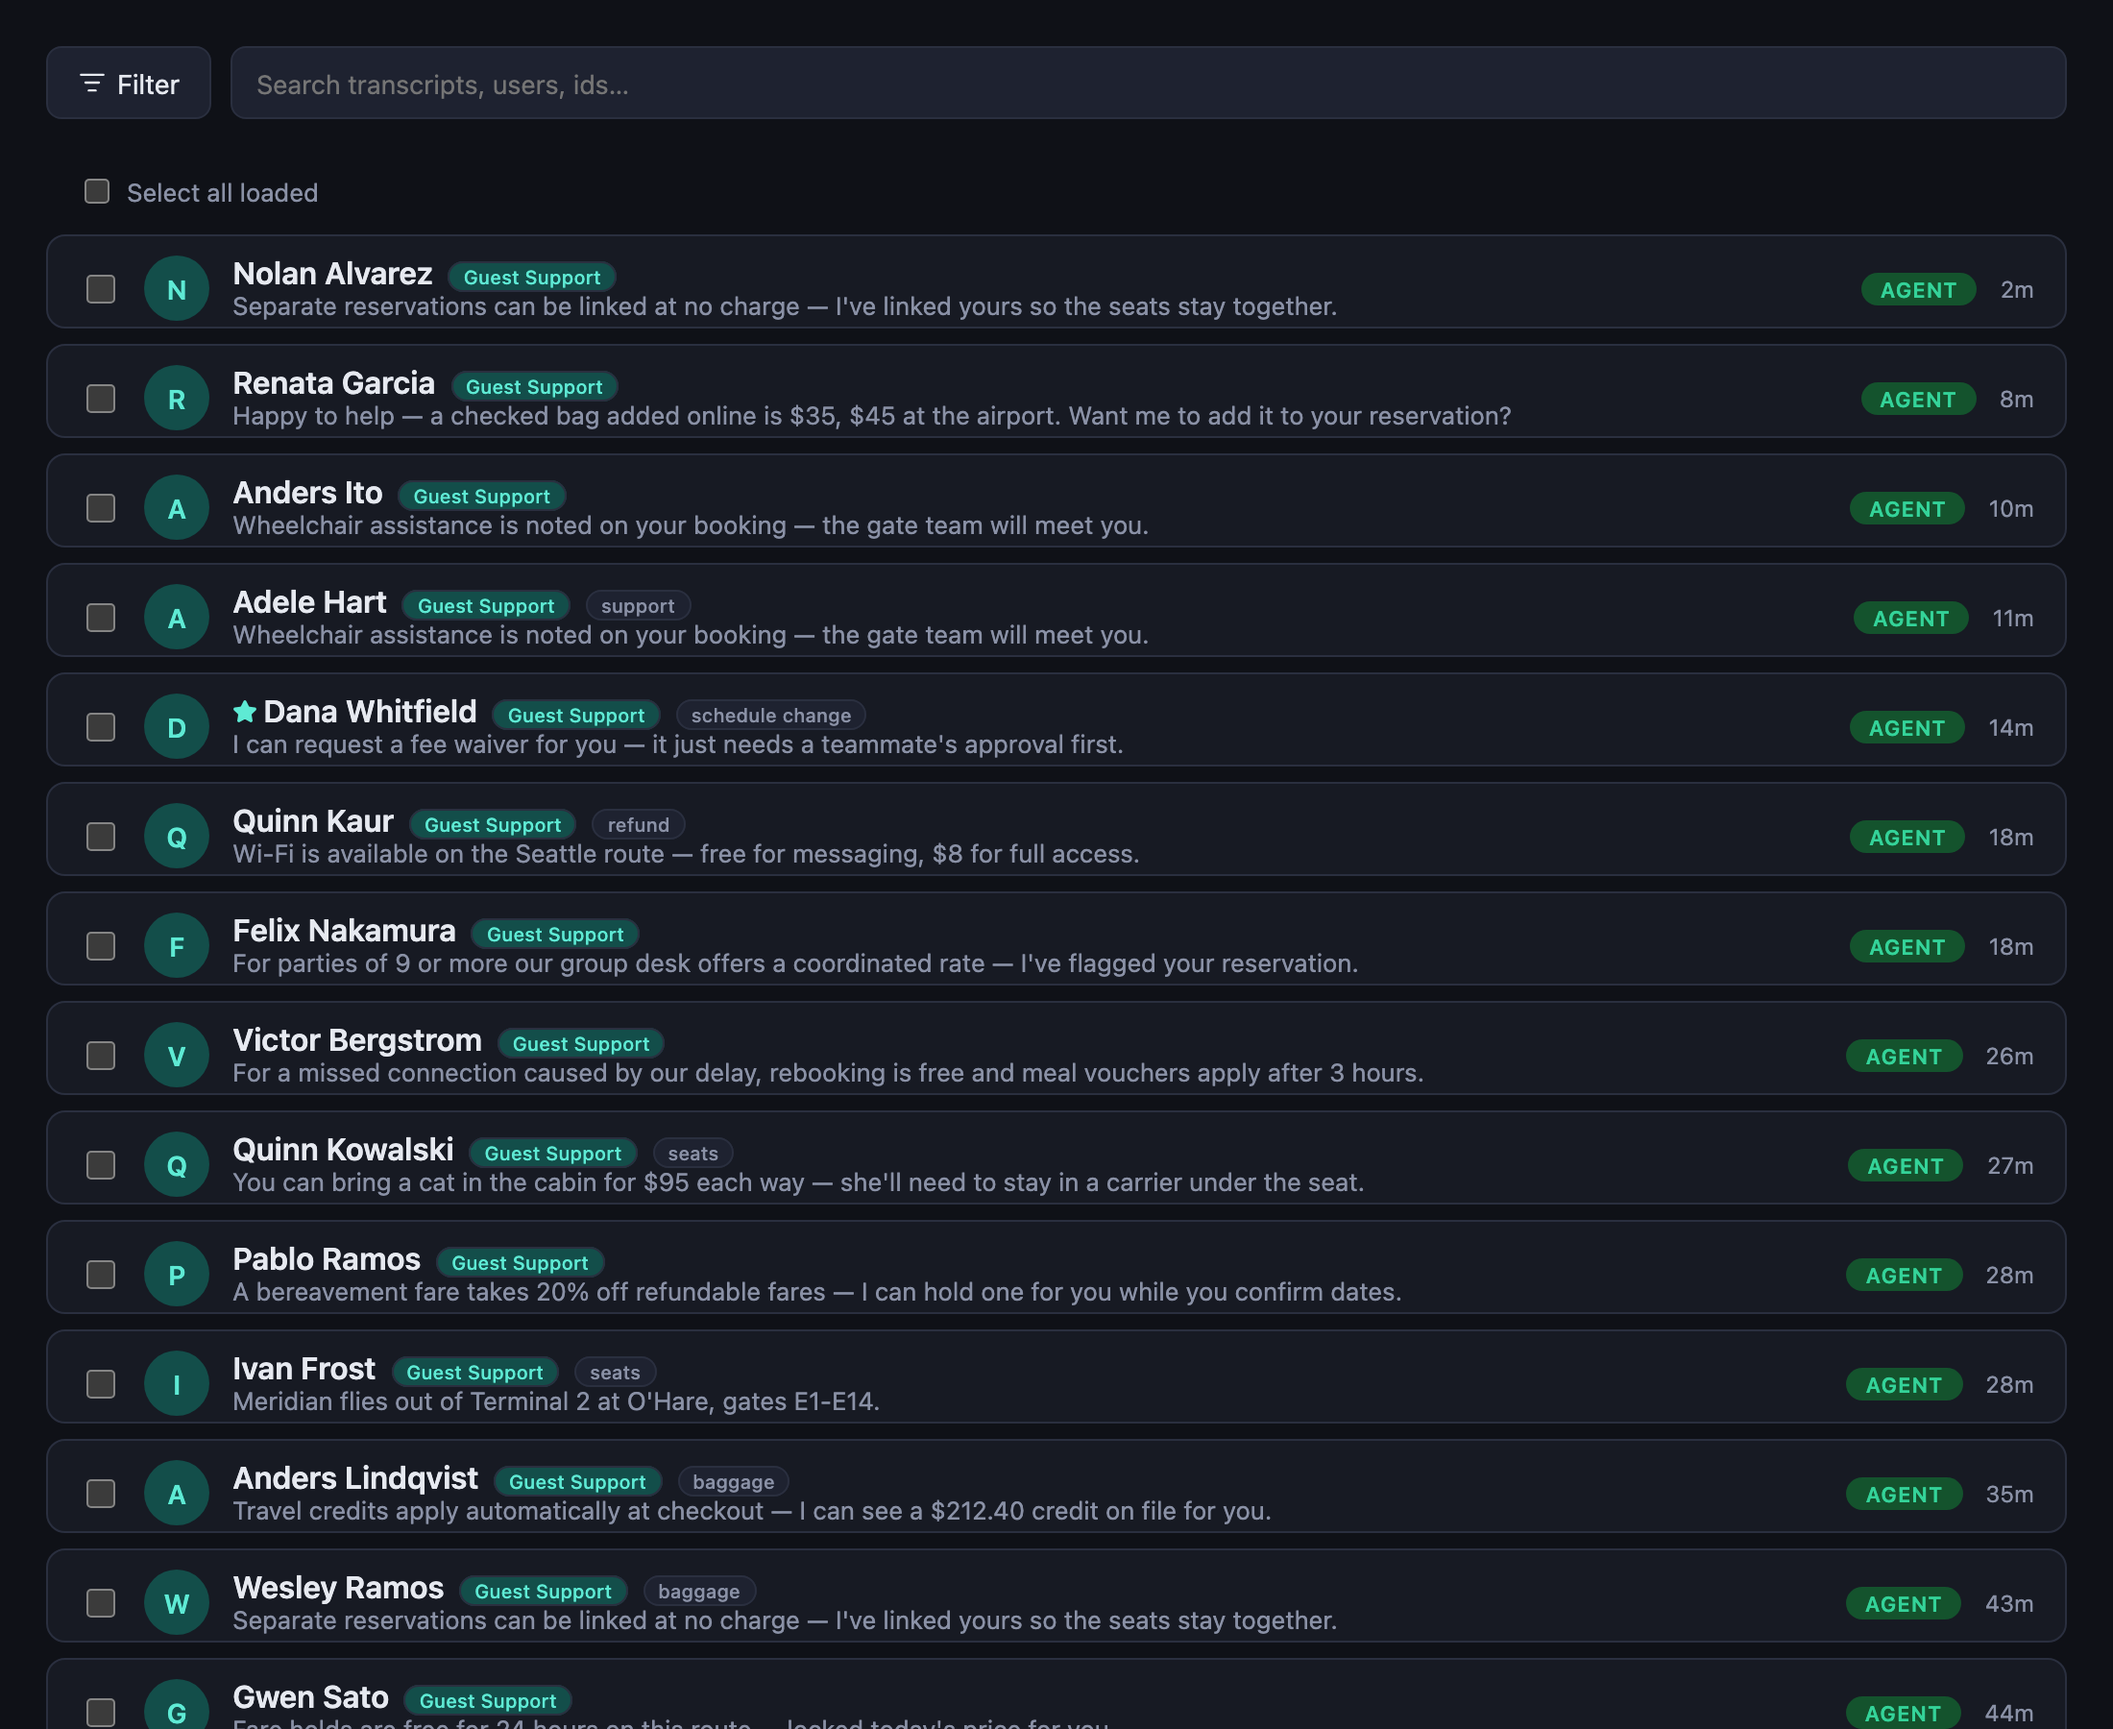
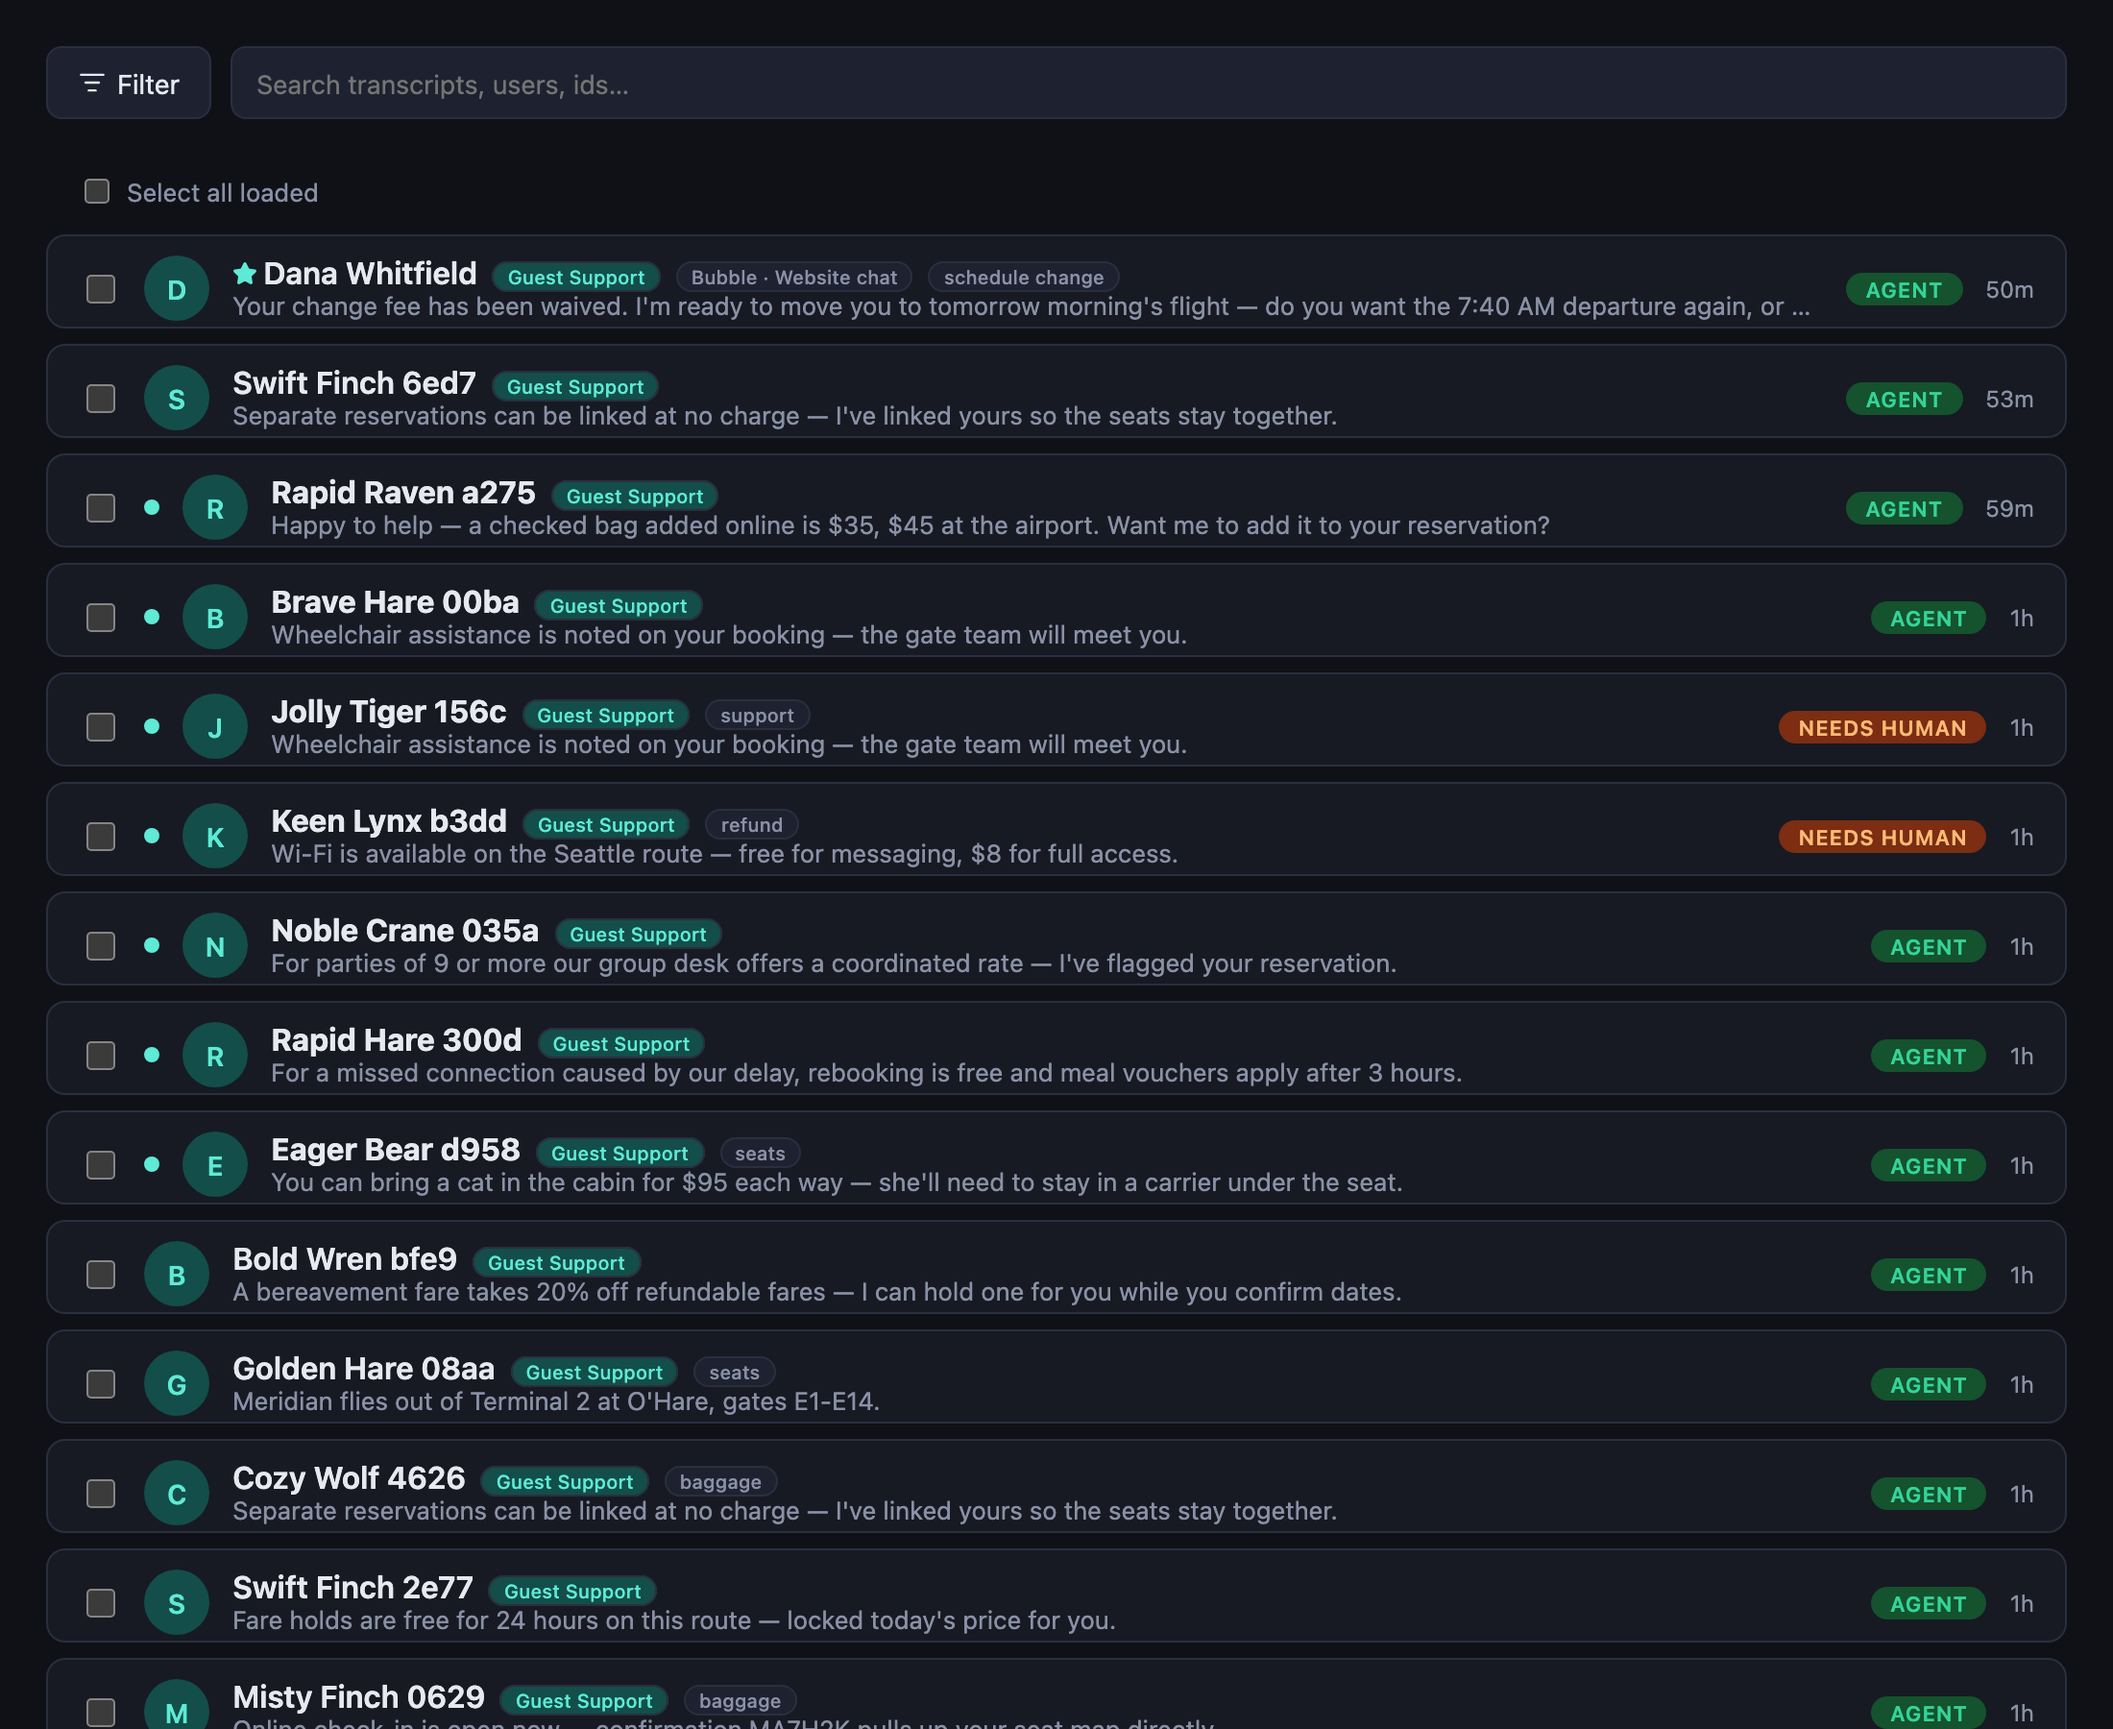
Swap phone slice for a copilot-context shot; channel + state variety in inbox
The phone close-up repeated the hero convo. The copilot rail sells the
real differentiator: page-aware, unified record across channels. Inbox
rows now carry channel chips and mixed states (unread, needs-human,
snoozed) instead of identical AGENT rows.

diff --git a/apps/web/src/pages/Landing.tsx b/apps/web/src/pages/Landing.tsx
@@ -146,9 +146,9 @@ const FEATURE_GROUPS: {
       cap: 'Web chat, WhatsApp, Instagram and email land in one queue — intent, owner and state on every row.',
     },
     sideShot: {
-      src: '/img/marketing-phone.png',
-      alt: 'The same conversation on a phone — approval card decided on the go',
-      cap: '…and on your phone. Approvals and takeover work wherever you are.',
+      src: '/img/marketing-copilot.png',
+      alt: 'Ask Janis — the copilot answers from the page and the customer record',
+      cap: 'Ask the copilot about the customer on screen — it answers with the unified record across every channel.',
     },
     items: [
       {
